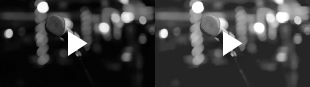
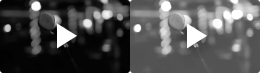
Video Buttons

diff --git a/development/_/css/main.css b/development/_/css/main.css
@@ -103,9 +103,9 @@ h4 {
 
 .video-btn {
     display: inline-block;
-    width: 155px;
+    width: 130px;
     height: 0;
-    padding-top: 87px;
+    padding-top: 73px;
     overflow: hidden;
     margin: 0 .15em 2em;
     -webkit-border-radius: 3px;
@@ -119,10 +119,12 @@ h4 {
 
 .anthem-btn {
     background: #000 url("../img/anthem-btn.png") no-repeat;
+    background-size: 200%;
 }
 
 .walkthrough-btn {
     background: #000 url("../img/walkthrough-btn.png") no-repeat;
+    background-size: 200%;
 }
 
 .appstore_btn {
@@ -853,5 +855,13 @@ only screen and (                min-resolution: 2dppx) {
 	
 	button.mfp-close {
         background-image: url("../img/close-btn-question@2x.png");
+    }
+    
+    .anthem-btn {
+        background-image: url("../img/anthem-btn@2x.png");
+    }
+
+    .walkthrough-btn {
+        background-image: url("../img/walkthrough-btn@2x.png");
     }
 }
